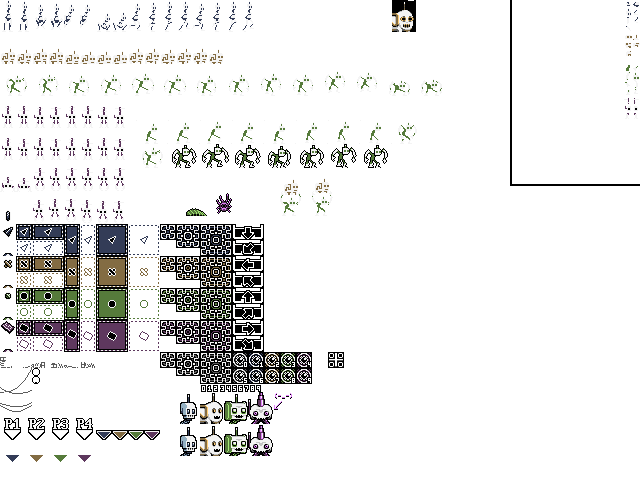
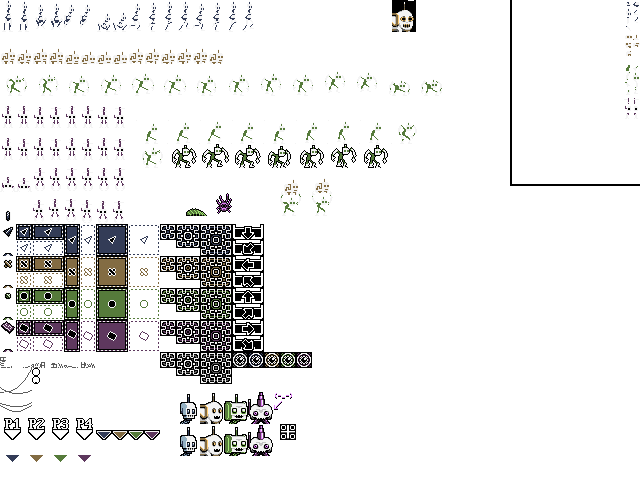
continued work on camera bound marker blocks

Changed region(s): [[0.3125, 0.7188, 0.5312, 0.8125], [0.4375, 0.875, 0.4688, 0.9375]]

diff --git a/src/game/menus.py b/src/game/menus.py
@@ -1356,7 +1356,7 @@ class LevelEditGameScene(_BaseGameScene):
         self.resolution_options = [cs // 8, cs // 4, cs // 2, cs]  # essentially assumes cs >= 16
         self.camera_speed = 8  # ticks per move (smaller == faster)
 
-        self.object_pallette = self._load_object_pallette()
+        self.object_pallette = build_object_pallette()
         self.sidepanel = self._setup_sidepanel()
 
         self._dirty = False  # whether the current state is different from the last-saved state
@@ -1816,7 +1816,7 @@ class LevelEditGameScene(_BaseGameScene):
         if color_id is not None:
             return spriteref.get_color(color_id, dark=True)
         else:
-            return artutils.darker(ent.get_color(ignore_override=True), pcnt=0.30)
+            return colors.darken(ent.get_color(ignore_override=True), 0.30)
 
     def set_selected(self, spec, select=True):
         if spec is None:
@@ -1863,24 +1863,6 @@ class LevelEditGameScene(_BaseGameScene):
                 return
 
             self._world_view = worldview.WorldView(self._world)
-
-    def _load_object_pallette(self):
-        res = []
-        res.append(blueprints.SpecTypes.BLOCK.get_default_blob())               # 1
-        res.append(blueprints.SpecTypes.START_BLOCK.get_default_blob())         # 2
-        res.append(blueprints.SpecTypes.END_BLOCK.get_default_blob())           # 3
-        res.append(blueprints.SpecTypes.SLOPE_BLOCK_QUAD.get_default_blob())    # 4
-        res.append(blueprints.SpecTypes.MOVING_BLOCK.get_default_blob())        # 5
-        res.append(blueprints.SpecTypes.DOOR_BLOCK.get_default_blob())          # 6
-        res.append(blueprints.SpecTypes.KEY_BLOCK.get_default_blob())           # 7
-        res.append(blueprints.SpecTypes.SPIKES.get_default_blob())              # 8
-        res.append(blueprints.SpecTypes.FALLING_BLOCK.get_default_blob())       # 9
-        res.append(blueprints.SpecTypes.TELEPORTER.get_default_blob())          # 0
-
-        res.append(blueprints.SpecTypes.INFO.get_default_blob())                # shift + 1
-        res.append(blueprints.SpecTypes.FALSE_BLOCK.get_default_blob())         # shift + 2
-
-        return res
 
     def get_pallette_object(self, idx):
         if 0 <= idx < len(self.object_pallette):
@@ -2110,6 +2092,25 @@ class ObjectPlacementMouseMode(MouseMode):
                 self.scene.set_spec_type_to_place(None)
             else:
                 self.scene.set_spec_type_to_place(obj_type)
+
+
+def build_object_pallette():
+    return [
+        blueprints.SpecTypes.BLOCK.get_default_blob(),                  # 1
+        blueprints.SpecTypes.START_BLOCK.get_default_blob(),            # 2
+        blueprints.SpecTypes.END_BLOCK.get_default_blob(),              # 3
+        blueprints.SpecTypes.SLOPE_BLOCK_QUAD.get_default_blob(),       # 4
+        blueprints.SpecTypes.MOVING_BLOCK.get_default_blob(),           # 5
+        blueprints.SpecTypes.DOOR_BLOCK.get_default_blob(),             # 6
+        blueprints.SpecTypes.KEY_BLOCK.get_default_blob(),              # 7
+        blueprints.SpecTypes.SPIKES.get_default_blob(),                 # 8
+        blueprints.SpecTypes.FALLING_BLOCK.get_default_blob(),          # 9
+        blueprints.SpecTypes.TELEPORTER.get_default_blob(),             # 0
+
+        blueprints.SpecTypes.INFO.get_default_blob(),                   # shift + 1
+        blueprints.SpecTypes.FALSE_BLOCK.get_default_blob(),            # shift + 2
+        blueprints.SpecTypes.CAMERA_BOUND_MARKER.get_default_blob()     # shift + 3
+    ]
 
 
 class Test3DScene(scenes.Scene):

diff --git a/src/game/entities.py b/src/game/entities.py
@@ -3454,14 +3454,23 @@ class InfoEntity(Entity):
 
 class CameraBoundMarker(Entity):
 
-    def __init__(self, x, y, idx):
+    def __init__(self, x, y, idx, show_timer=True):
         super().__init__(x, y, w=16, h=16)
         self.idx = idx
+        self.show_timer = show_timer
 
         self._sprite = None
+        self._number_sprites = []
+        self._timer_sprite = None
 
     def get_idx(self):
         return self.idx
+
+    def get_color(self, ignore_override=False):
+        if ignore_override:
+            return colors.PERFECT_WHITE
+        else:
+            return super().get_color(ignore_override=ignore_override)
 
     def update_sprites(self):
         if self.get_world().is_being_edited():
@@ -3469,12 +3478,42 @@ class CameraBoundMarker(Entity):
                 self._sprite = sprites.ImageSprite.new_sprite(spriteref.WORLD_UI_LAYER)
             self._sprite = self._sprite.update(new_model=spriteref.object_sheet().get_camera_boundary_sprite(self.idx),
                                                new_x=self.get_x(),
-                                               new_y=self.get_y())
+                                               new_y=self.get_y(),
+                                               new_color=self.get_color())
+            numbers = [int(c) for c in str(self.idx)]
+            util.extend_or_empty_list_to_length(
+                self._number_sprites,
+                len(numbers),
+                creator=lambda: sprites.ImageSprite.new_sprite(spriteref.WORLD_UI_LAYER, depth=-5))
+            for i, c in enumerate(numbers):
+                model = spriteref.level_builder_sheet().number_icons[c]
+                self._number_sprites[i] = self._number_sprites[i].update(
+                    new_model=model,
+                    new_x=self.get_x() + self.get_w() - 1 - (model.width() - 1) * (len(numbers) - i),
+                    new_y=self.get_y() + self.get_h() - model.height(),
+                    new_color=self.get_color())
+
+            if self.show_timer:
+                if self._timer_sprite is None:
+                    self._timer_sprite = sprites.ImageSprite.new_sprite(spriteref.WORLD_UI_LAYER, depth=-3)
+                model = spriteref.level_builder_sheet().clock_icon
+                self._timer_sprite = self._timer_sprite.update(
+                    new_model=model,
+                    new_x=self.get_x(),
+                    new_y=self.get_y() + self.get_h() - model.height(),
+                    new_color=self.get_color())
+            else:
+                self._timer_sprite = None
         else:
             self._sprite = None
+            self._number_sprites.clear()
+            self._timer_sprite = None
 
     def all_sprites(self):
         yield self._sprite
+        yield self._timer_sprite
+        for spr in self._number_sprites:
+            yield spr
 
 
 class CollisionMask:

diff --git a/src/game/spriteref.py b/src/game/spriteref.py
@@ -410,7 +410,7 @@ class _ObjectSheet(spritesheets.SpriteSheet):
             tp_sprites = tuple([_img(tp_xy[0] + j * 32, tp_xy[1] + i * 16, 32, 16, offs=start_pos) for j in range(4)])
             self.teleporter_blocks.append(tp_sprites)
 
-        self.camera_boundary_blocks = [_img(232 + 16 * (i % 5), 352 + 16 * (i // 5), 16, 16, offs=start_pos) for i in range(10)]
+        self.camera_boundary_blocks = [_img(232 + 16 * i, 352, 16, 16, offs=start_pos) for i in range(5)]
 
     def get_spikes_with_length(self, length, tops=True, overflow_if_not_divisible=True):
         all_spikes = self.all_spike_tops if tops else self.all_spike_bottoms
@@ -838,6 +838,9 @@ class _LevelBuilderSheet(spritesheets.SpriteSheet):
         self.level_builder_expand_button = None
         self.level_builder_contract_button = None
 
+        self.number_icons = []
+        self.clock_icon = None
+
     def draw_to_atlas(self, atlas, sheet, start_pos=(0, 0)):
         super().draw_to_atlas(atlas, sheet, start_pos=start_pos)
 
@@ -855,6 +858,10 @@ class _LevelBuilderSheet(spritesheets.SpriteSheet):
 
         self.level_builder_expand_button = _img(112, 16, 8, 24, offs=start_pos)
         self.level_builder_contract_button = _img(120, 16, 8, 24, offs=start_pos)
+
+        offs = (160, 96)
+        self.number_icons = [_img(offs[0] + 5 * i, offs[1], 5, 7, offs=start_pos) for i in range(10)]
+        self.clock_icon = _img(offs[0], offs[1] + 7, 7, 7, offs=start_pos)
 
 
 class _StarSheet(spritesheets.SpriteSheet):

diff --git a/src/game/blueprints.py b/src/game/blueprints.py
@@ -421,6 +421,32 @@ class TeleporterSpecType(SpecType):
         yield entities.TeleporterBlock(x, y, w, h, channel, not inverted, mode)
 
 
+class CameraBoundMarkerSpecType(SpecType):
+
+    def __init__(self):
+        SpecType.__init__(self, "camera_bound_marker", required_keys=(SUBTYPE_ID, X, Y, COLOR_ID),
+                          optional_keys={INVERTED: False})
+
+    def get_subtypes(self):
+        return ["{}X".format(i) for i in range(10)]
+
+    def get_color_ids(self, spec):
+        return [x for x in range(10)]
+
+    def build_entities(self, json_blob):
+        x = json_blob[X]
+        y = json_blob[Y]
+
+        show_timer = not json_blob[INVERTED]  # show timer by default
+
+        # SUBTYPE_ID and COLOR_ID gives a 2-digit ID number
+        idx_tens_place = int(json_blob[SUBTYPE_ID][0])
+        idx_ones_place = json_blob[COLOR_ID]
+        idx = idx_tens_place * 10 + idx_ones_place
+
+        yield entities.CameraBoundMarker(x, y, idx, show_timer=show_timer)
+
+
 class SpikeSpecType(SpecType):
 
     def __init__(self):
@@ -691,6 +717,7 @@ class SpecTypes:
     FALLING_BLOCK = FallingBlockSpecType()
     DIALOG_TRIGGER = DialogTriggerSpecType()
     TELEPORTER = TeleporterSpecType()
+    CAMERA_BOUND_MARKER = CameraBoundMarkerSpecType()
 
     DOOR_BLOCK = DoorBlockSpecType()
     KEY_BLOCK = KeySpecType()
